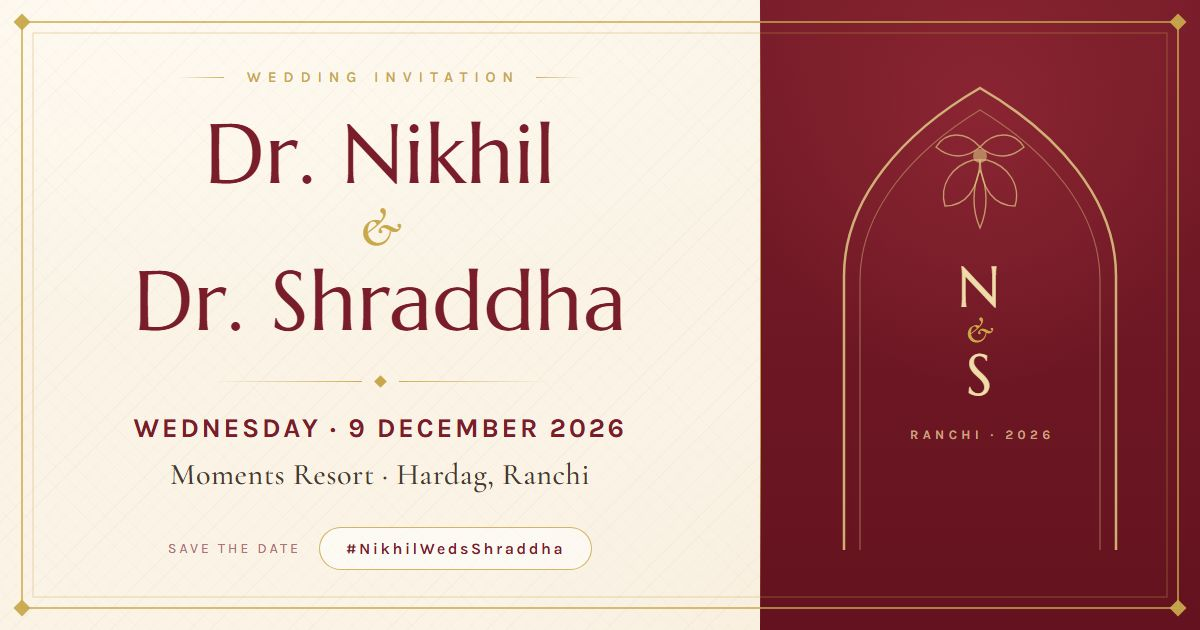
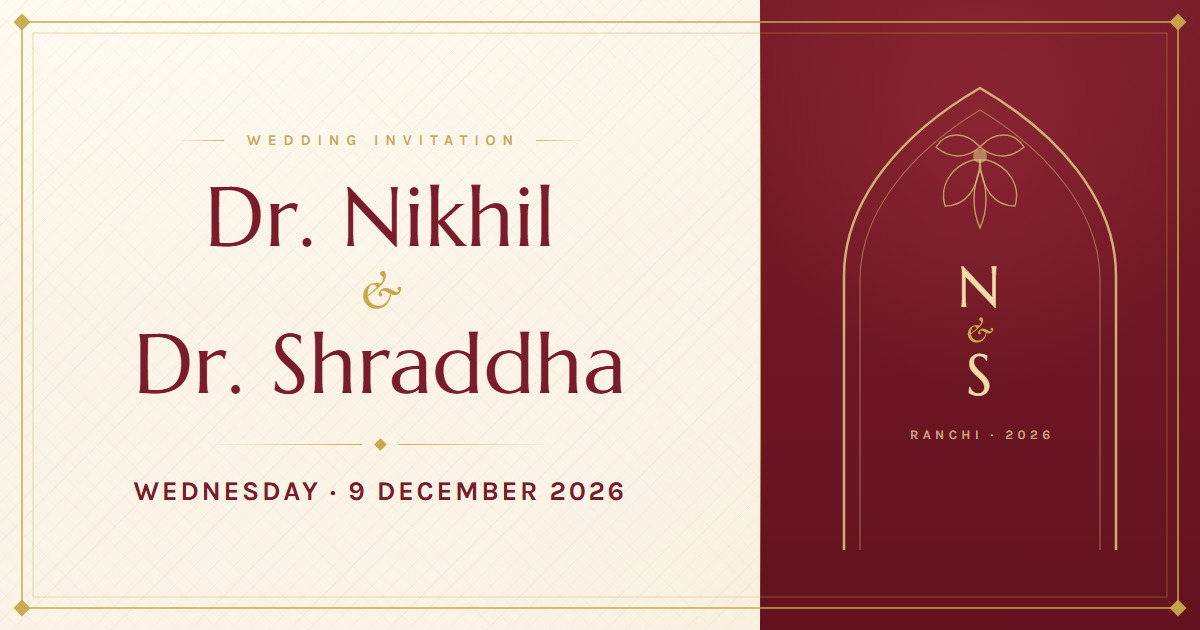
Drop venue and subtext from share card and preview metadata

diff --git a/index.html b/index.html
@@ -4,7 +4,6 @@
     <meta charset="UTF-8" />
     <meta name="viewport" content="width=device-width, initial-scale=1.0, viewport-fit=cover" />
     <title>Dr. Nikhil &amp; Dr. Shraddha &mdash; Wedding Invitation</title>
-    <meta name="description" content="Together with their families, Dr. Nikhil &amp; Dr. Shraddha invite you to their wedding on Wednesday, 9 December 2026 at Moments Resort, Hardag, Ranchi. #NikhilWedsShraddha" />
     <link rel="icon" type="image/x-icon" href="./favicon.ico" />
     <link rel="canonical" href="https://dr-nikhil-weds-dr-shradha.inviteby.top/" />
 
@@ -13,13 +12,12 @@
     <meta property="og:url" content="https://dr-nikhil-weds-dr-shradha.inviteby.top/" />
     <meta property="og:site_name" content="Dr. Nikhil &amp; Dr. Shraddha Wedding Invitation" />
     <meta property="og:title" content="Dr. Nikhil &amp; Dr. Shraddha — Wedding Invitation" />
-    <meta property="og:description" content="Together with their families, Dr. Nikhil &amp; Dr. Shraddha request the pleasure of your company at their wedding on Wednesday, 9 December 2026 at Moments Resort, Hardag, Ranchi. Engagement 21 Nov · Tilak 5 Dec · Haldi &amp; Sangeet 8 Dec." />
     <meta property="og:image" content="https://dr-nikhil-weds-dr-shradha.inviteby.top/og-image.jpg" />
     <meta property="og:image:secure_url" content="https://dr-nikhil-weds-dr-shradha.inviteby.top/og-image.jpg" />
     <meta property="og:image:type" content="image/jpeg" />
     <meta property="og:image:width" content="1200" />
     <meta property="og:image:height" content="630" />
-    <meta property="og:image:alt" content="Wedding invitation for Dr. Nikhil &amp; Dr. Shraddha — Wednesday, 9 December 2026 at Moments Resort, Hardag, Ranchi" />
+    <meta property="og:image:alt" content="Wedding invitation for Dr. Nikhil &amp; Dr. Shraddha — Wednesday, 9 December 2026" />
     <meta property="og:logo" content="https://dr-nikhil-weds-dr-shradha.inviteby.top/og-logo.png" />
     <meta property="og:logo:width" content="512" />
     <meta property="og:logo:height" content="512" />
@@ -29,9 +27,8 @@
     <meta name="twitter:card" content="summary_large_image" />
     <meta name="twitter:url" content="https://dr-nikhil-weds-dr-shradha.inviteby.top/" />
     <meta name="twitter:title" content="Dr. Nikhil &amp; Dr. Shraddha — Wedding Invitation" />
-    <meta name="twitter:description" content="Together with their families, Dr. Nikhil &amp; Dr. Shraddha invite you to their wedding on Wednesday, 9 December 2026 at Moments Resort, Hardag, Ranchi. #NikhilWedsShraddha" />
     <meta name="twitter:image" content="https://dr-nikhil-weds-dr-shradha.inviteby.top/og-image.jpg" />
-    <meta name="twitter:image:alt" content="Wedding invitation for Dr. Nikhil &amp; Dr. Shraddha — 9 December 2026, Ranchi" />
+    <meta name="twitter:image:alt" content="Wedding invitation for Dr. Nikhil &amp; Dr. Shraddha — 9 December 2026" />
 
     <script src="./editable/wedding-data.js"></script>
     <script type="module" crossorigin src="./assets/index-BrMSd8jH.js"></script>

diff --git a/og-card.html b/og-card.html
@@ -287,12 +287,6 @@
         <div class="rule"><span></span><b></b><span></span></div>
 
         <div class="date">Wednesday &middot; 9 December 2026</div>
-        <div class="venue">Moments Resort &middot; Hardag, Ranchi</div>
-
-        <div class="foot">
-          <span class="season">Save the date</span>
-          <span class="pill">#NikhilWedsShraddha</span>
-        </div>
       </div>
 
       <div class="right">
